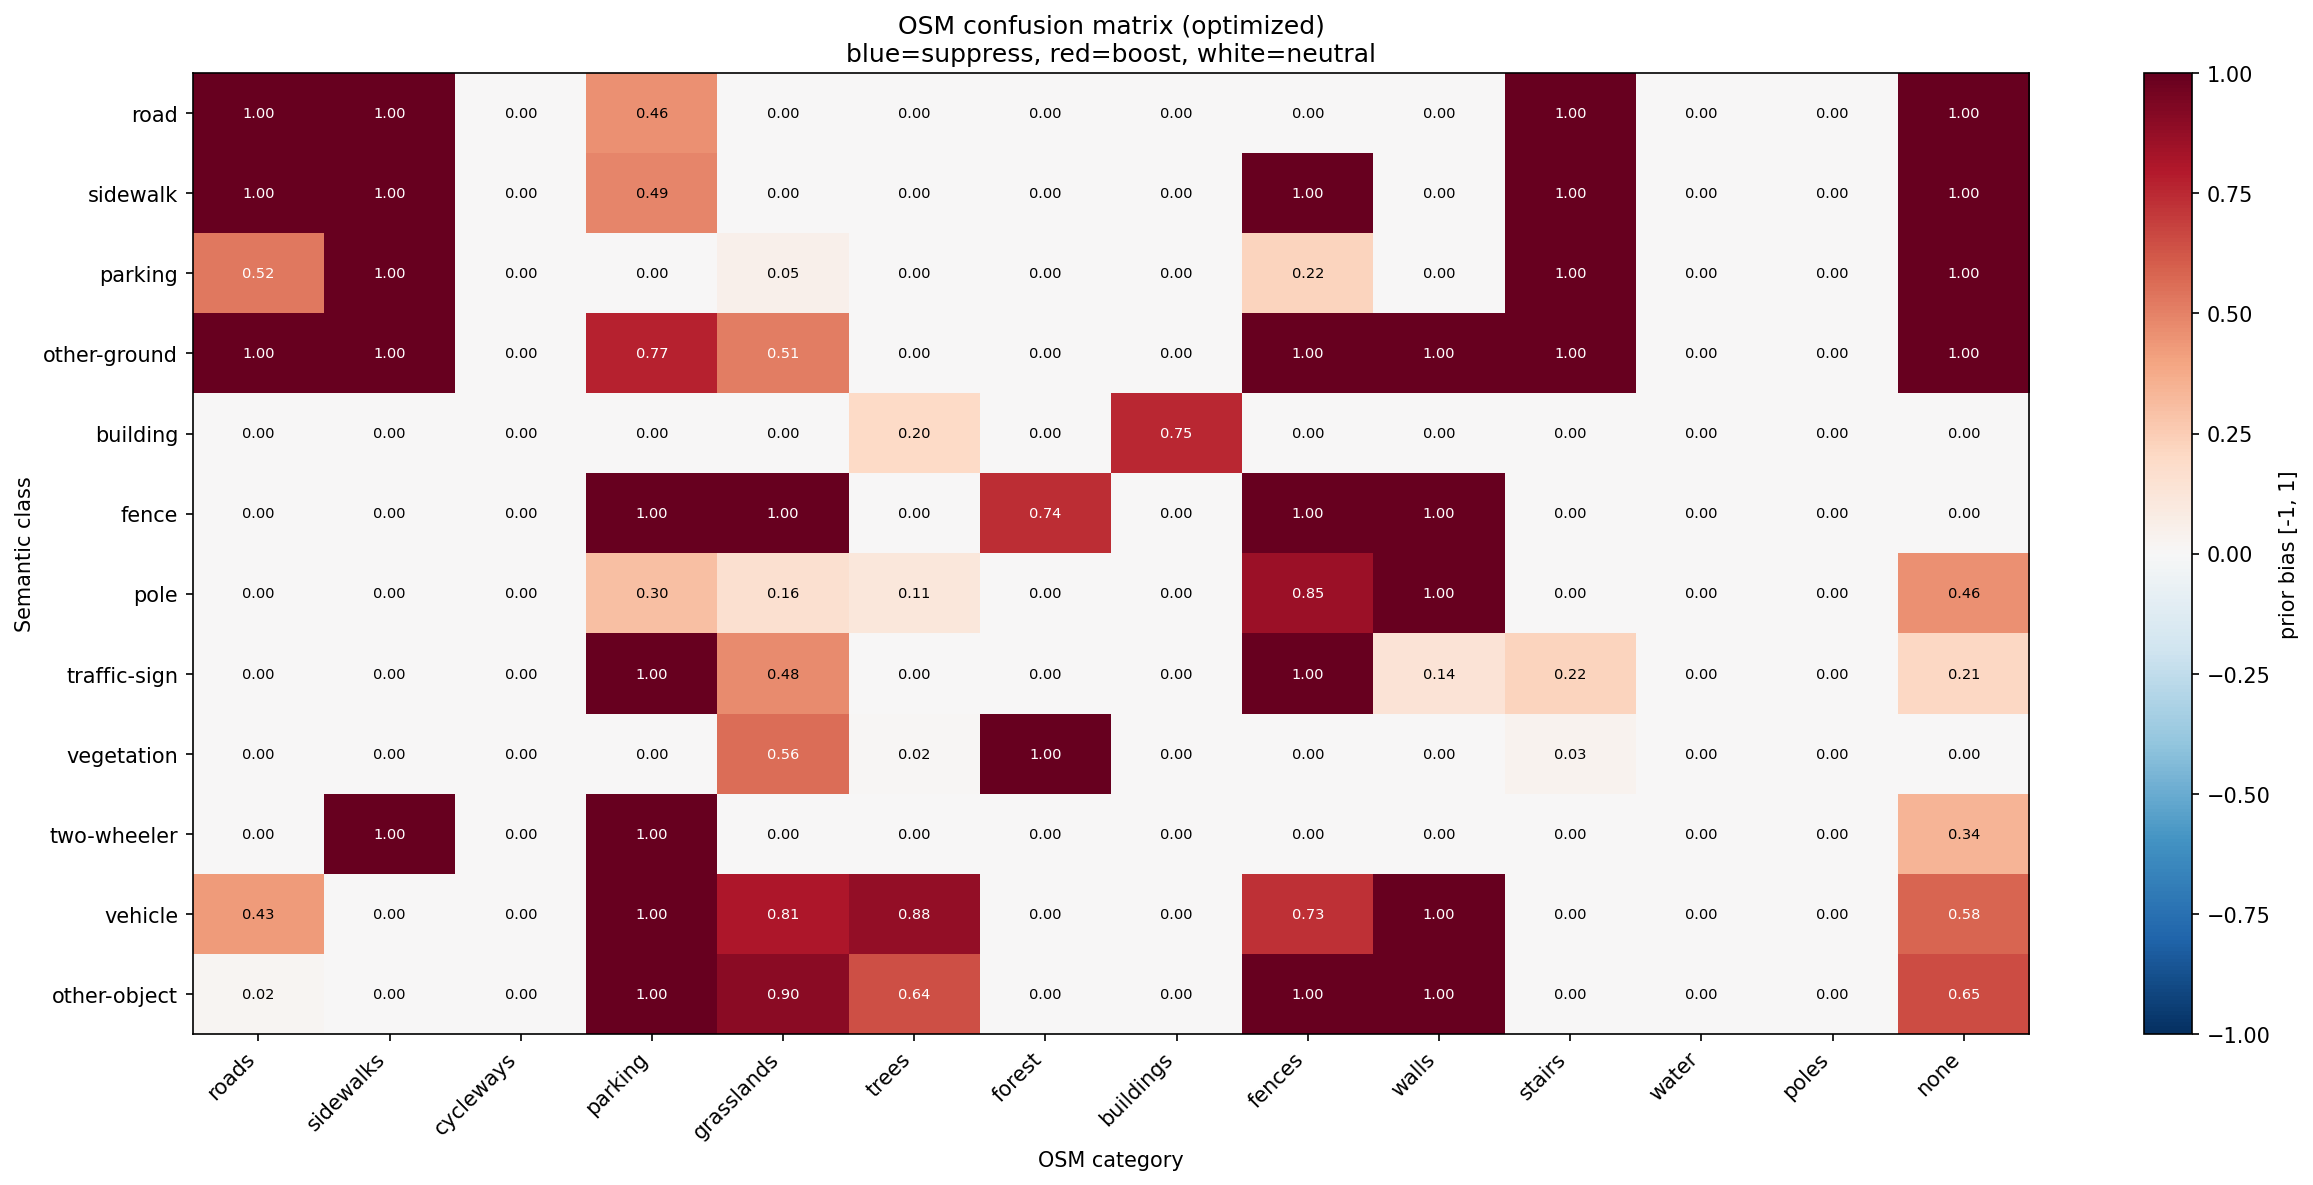
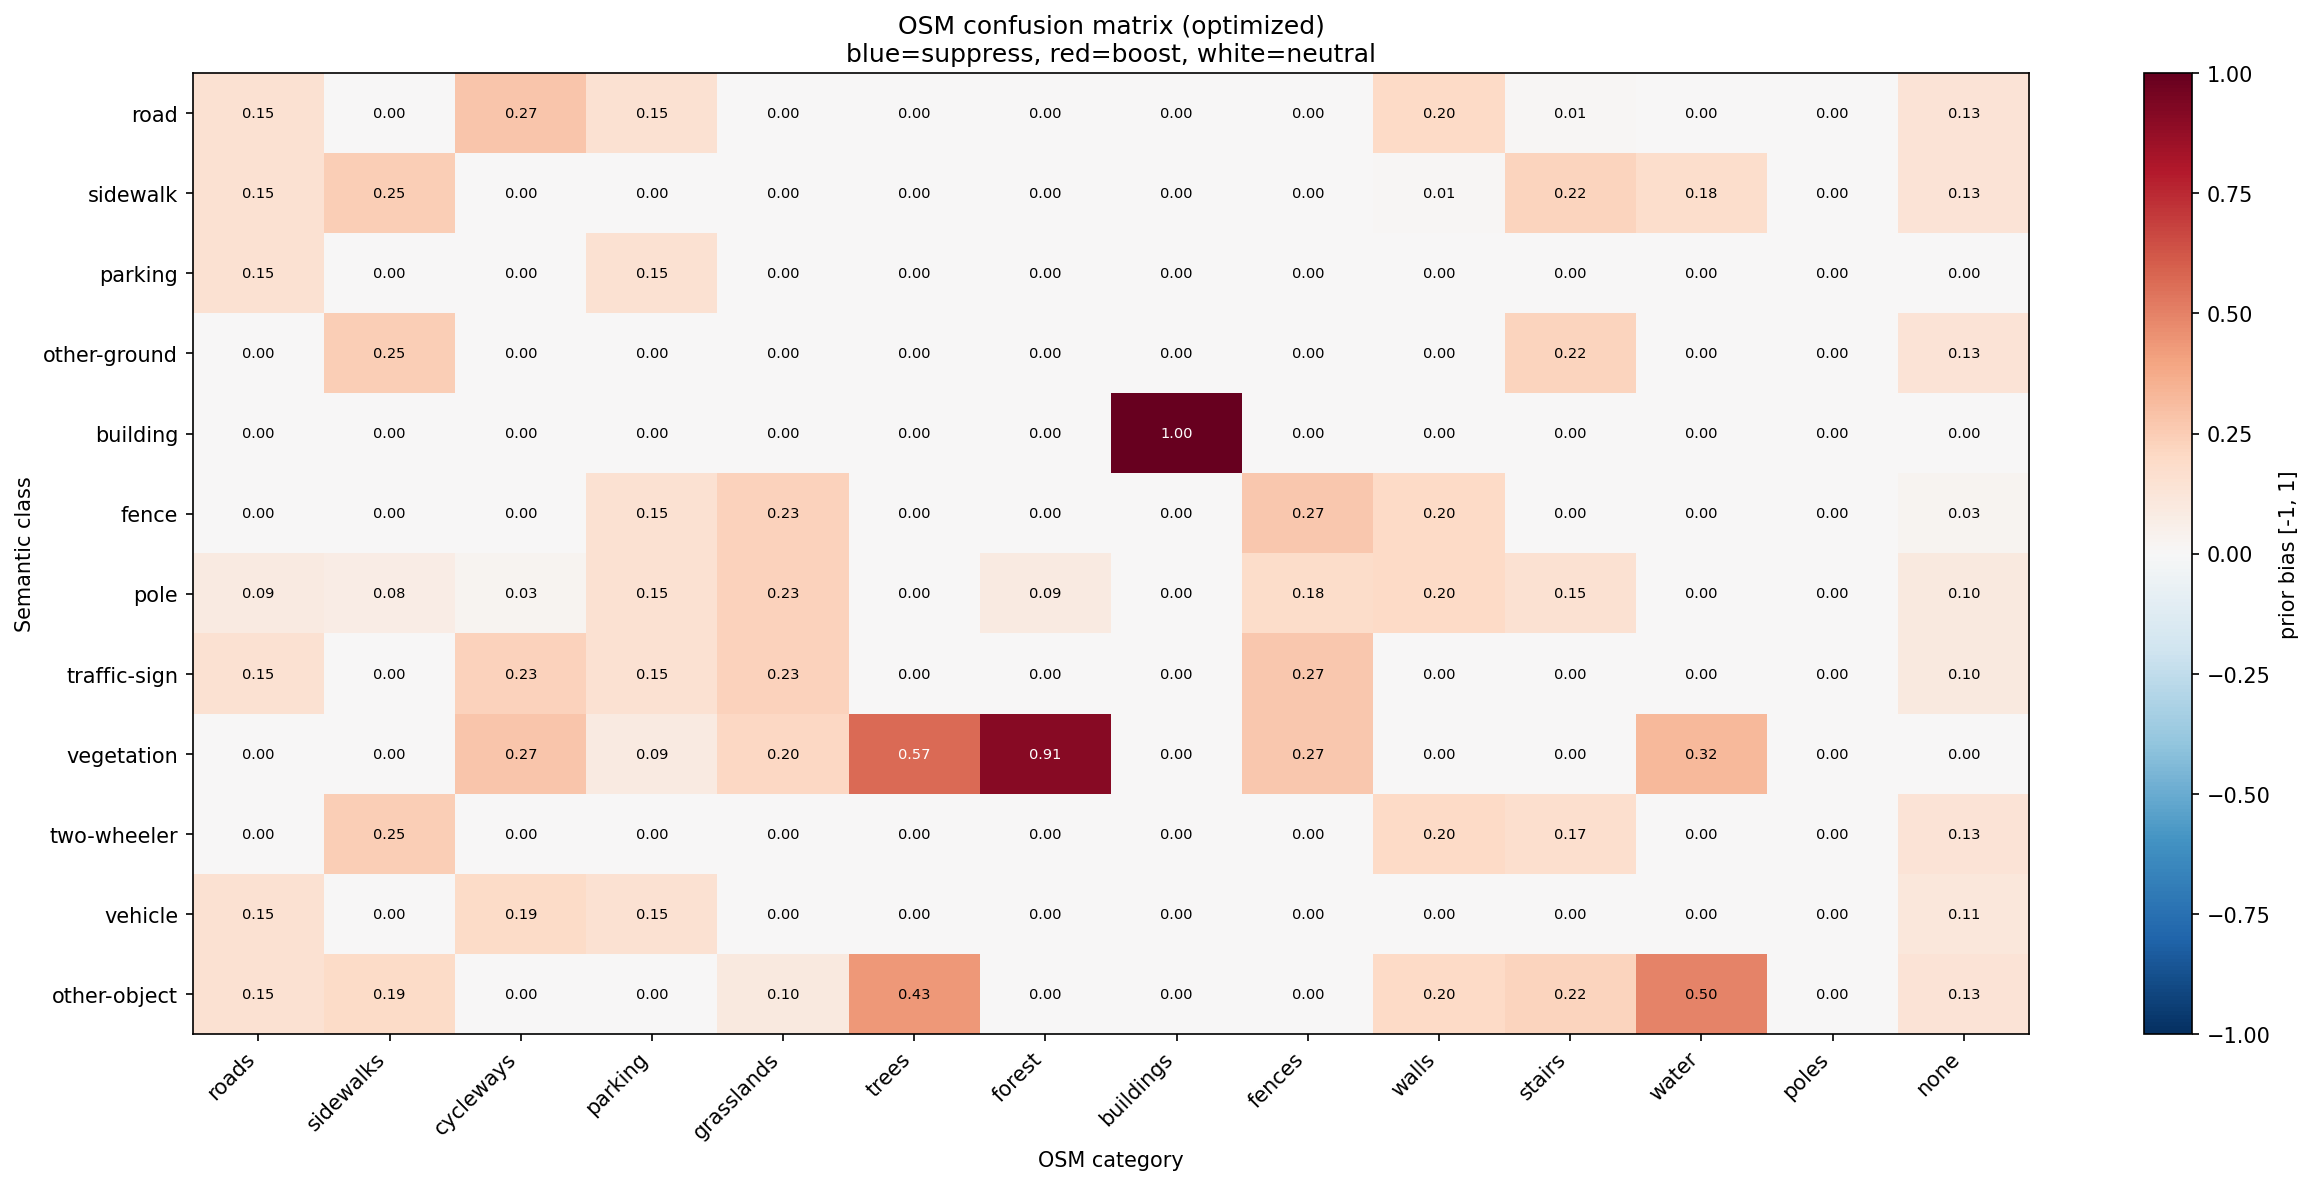
update for normalizing priors

diff --git a/optimize_osm_cm.py b/optimize_osm_cm.py
@@ -825,12 +825,17 @@ def build_osm_grid(pts_xy, geom, decay_m, tree_radius, grid_res=2.0, precomputed
         for i in range(n):
             k = (int(keys[i, 0]), int(keys[i, 1]))
             if k in precomputed_grid:
-                osm_vecs[i] = precomputed_grid[k]
+                v = precomputed_grid[k]
             else:
                 cx = (k[0] + 0.5) * grid_res
                 cy = (k[1] + 0.5) * grid_res
                 v = _compute_cell_prior(cx, cy, geom, osm_index, decay_m, tree_radius, cats)
                 precomputed_grid[k] = v  # cache for reuse
+            # Normalize so sum of priors (including 'none') is 1
+            s = float(v.sum())
+            if s > 1e-6:
+                osm_vecs[i] = v / s
+            else:
                 osm_vecs[i] = v
         return osm_vecs
 
@@ -840,12 +845,17 @@ def build_osm_grid(pts_xy, geom, decay_m, tree_radius, grid_res=2.0, precomputed
     for i in range(n):
         k = (int(keys[i, 0]), int(keys[i, 1]))
         if k in cache:
-            osm_vecs[i] = cache[k]
+            v = cache[k]
         else:
             cx = (k[0] + 0.5) * grid_res
             cy = (k[1] + 0.5) * grid_res
             v = _compute_cell_prior(cx, cy, geom, idx, decay_m, tree_radius, cats)
             cache[k] = v
+        # Normalize so sum of priors (including 'none') is 1
+        s = float(v.sum())
+        if s > 1e-6:
+            osm_vecs[i] = v / s
+        else:
             osm_vecs[i] = v
     return osm_vecs
 
@@ -1016,6 +1026,11 @@ def derive_matrix(counts, class_totals, positive_only=False):
                     matrix[ri][j] = max(0.0, raw)
                 else:
                     matrix[ri][j] = raw
+    # Normalize so each column sums to 1
+    for j in range(N_OSM):
+        col_sum = matrix[:, j].sum()
+        if col_sum > 1e-10:
+            matrix[:, j] /= col_sum
     return matrix
 
 
@@ -1087,9 +1102,10 @@ def build_cooccurrence_height(scan_data_list, num_bins=20, prior_matrix=None):
     return counts_h, totals_h
 
 
-def derive_height_matrix(counts_h, totals_h, num_bins=20):
+def derive_height_matrix(counts_h, totals_h, num_bins=20, low_percentile=10.0, high_percentile=90.0):
     """Derive height confusion matrix: matrix[bin][col] = trust multiplier in [0, 1].
-    When totals_h[bin][col] is negligible, use 1.0 (neutral)."""
+    When totals_h[bin][col] is negligible, use 1.0 (neutral).
+    Outliers are removed by clipping each column to [low_percentile, high_percentile] of that column."""
     matrix = np.zeros((num_bins, N_OSM))
     for b in range(num_bins):
         for j in range(N_OSM):
@@ -1097,6 +1113,12 @@ def derive_height_matrix(counts_h, totals_h, num_bins=20):
                 matrix[b, j] = 1.0
             else:
                 matrix[b, j] = np.clip(counts_h[b, j] / totals_h[b, j], 0.0, 1.0)
+    # Remove outliers: per-column clip to percentile range
+    for j in range(N_OSM):
+        col = matrix[:, j]
+        lo = np.percentile(col, low_percentile)
+        hi = np.percentile(col, high_percentile)
+        matrix[:, j] = np.clip(col, lo, hi)
     return matrix
 
 
